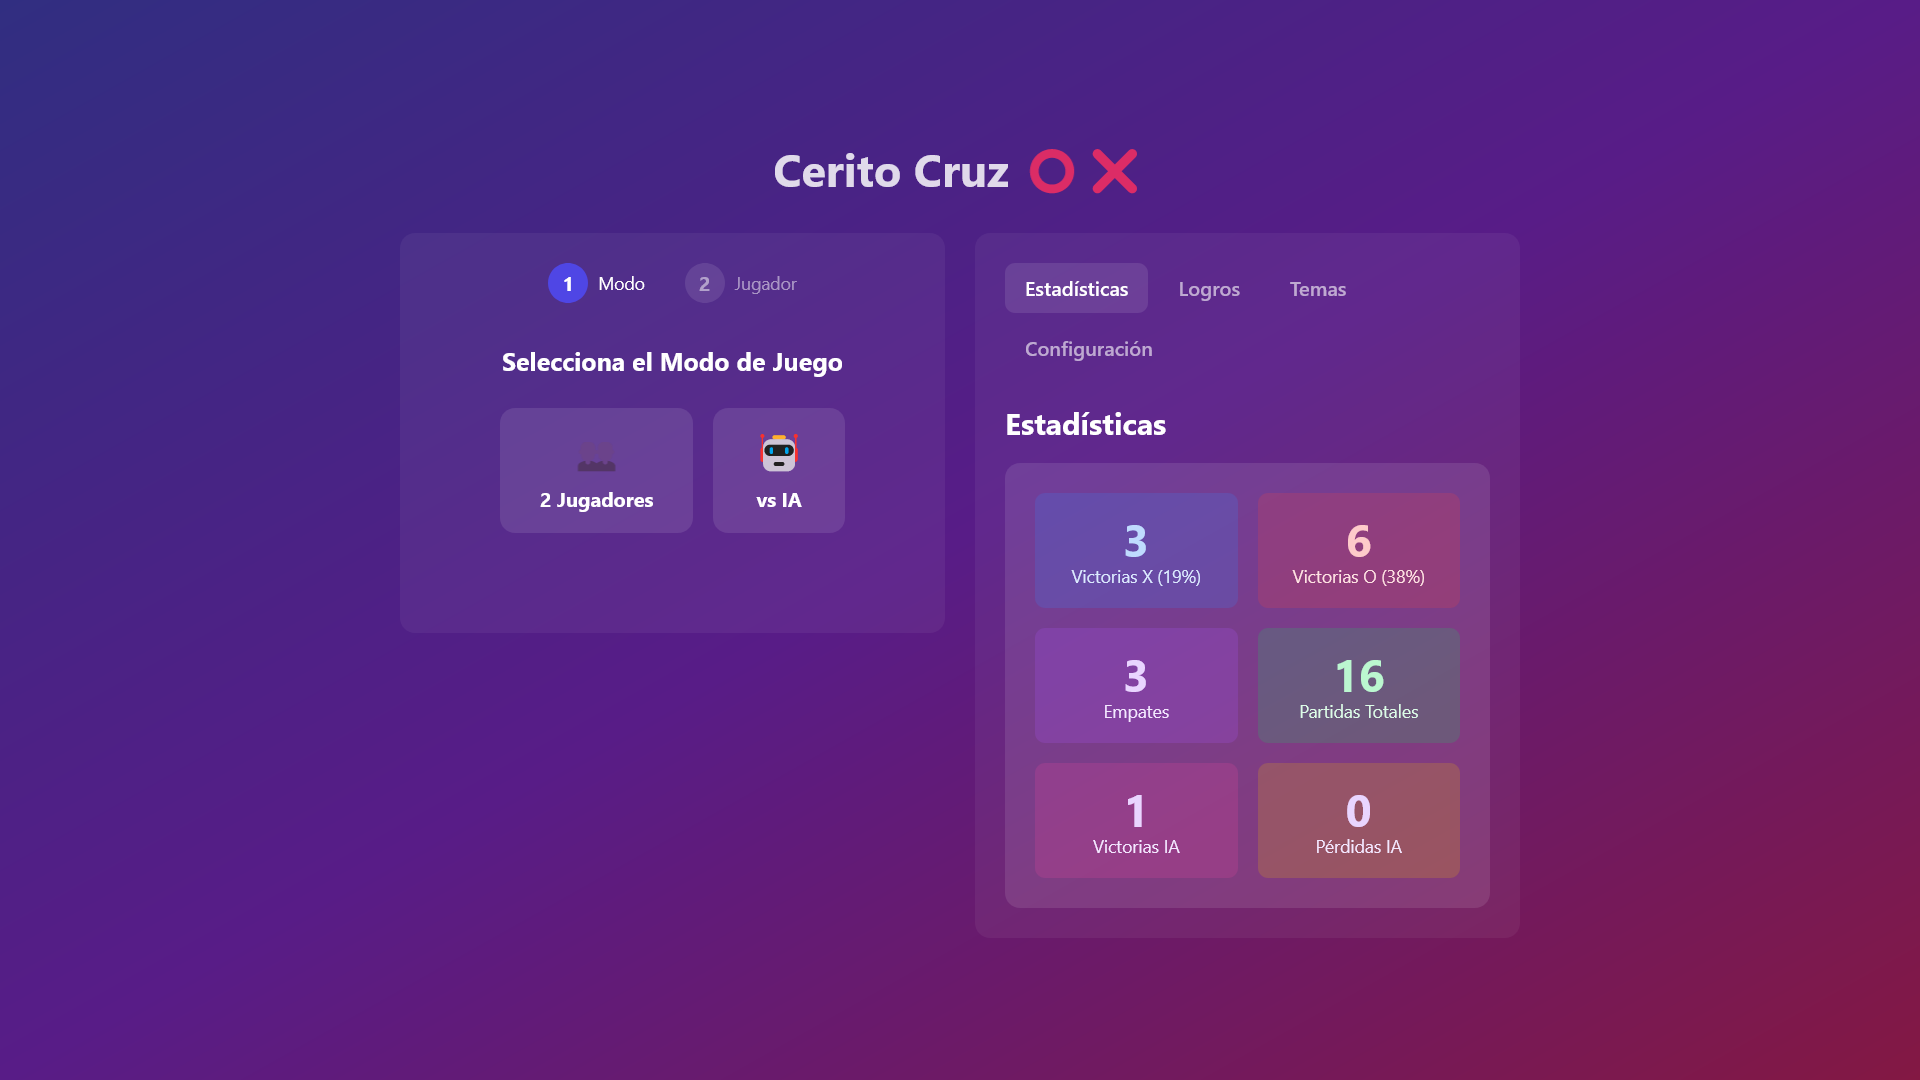
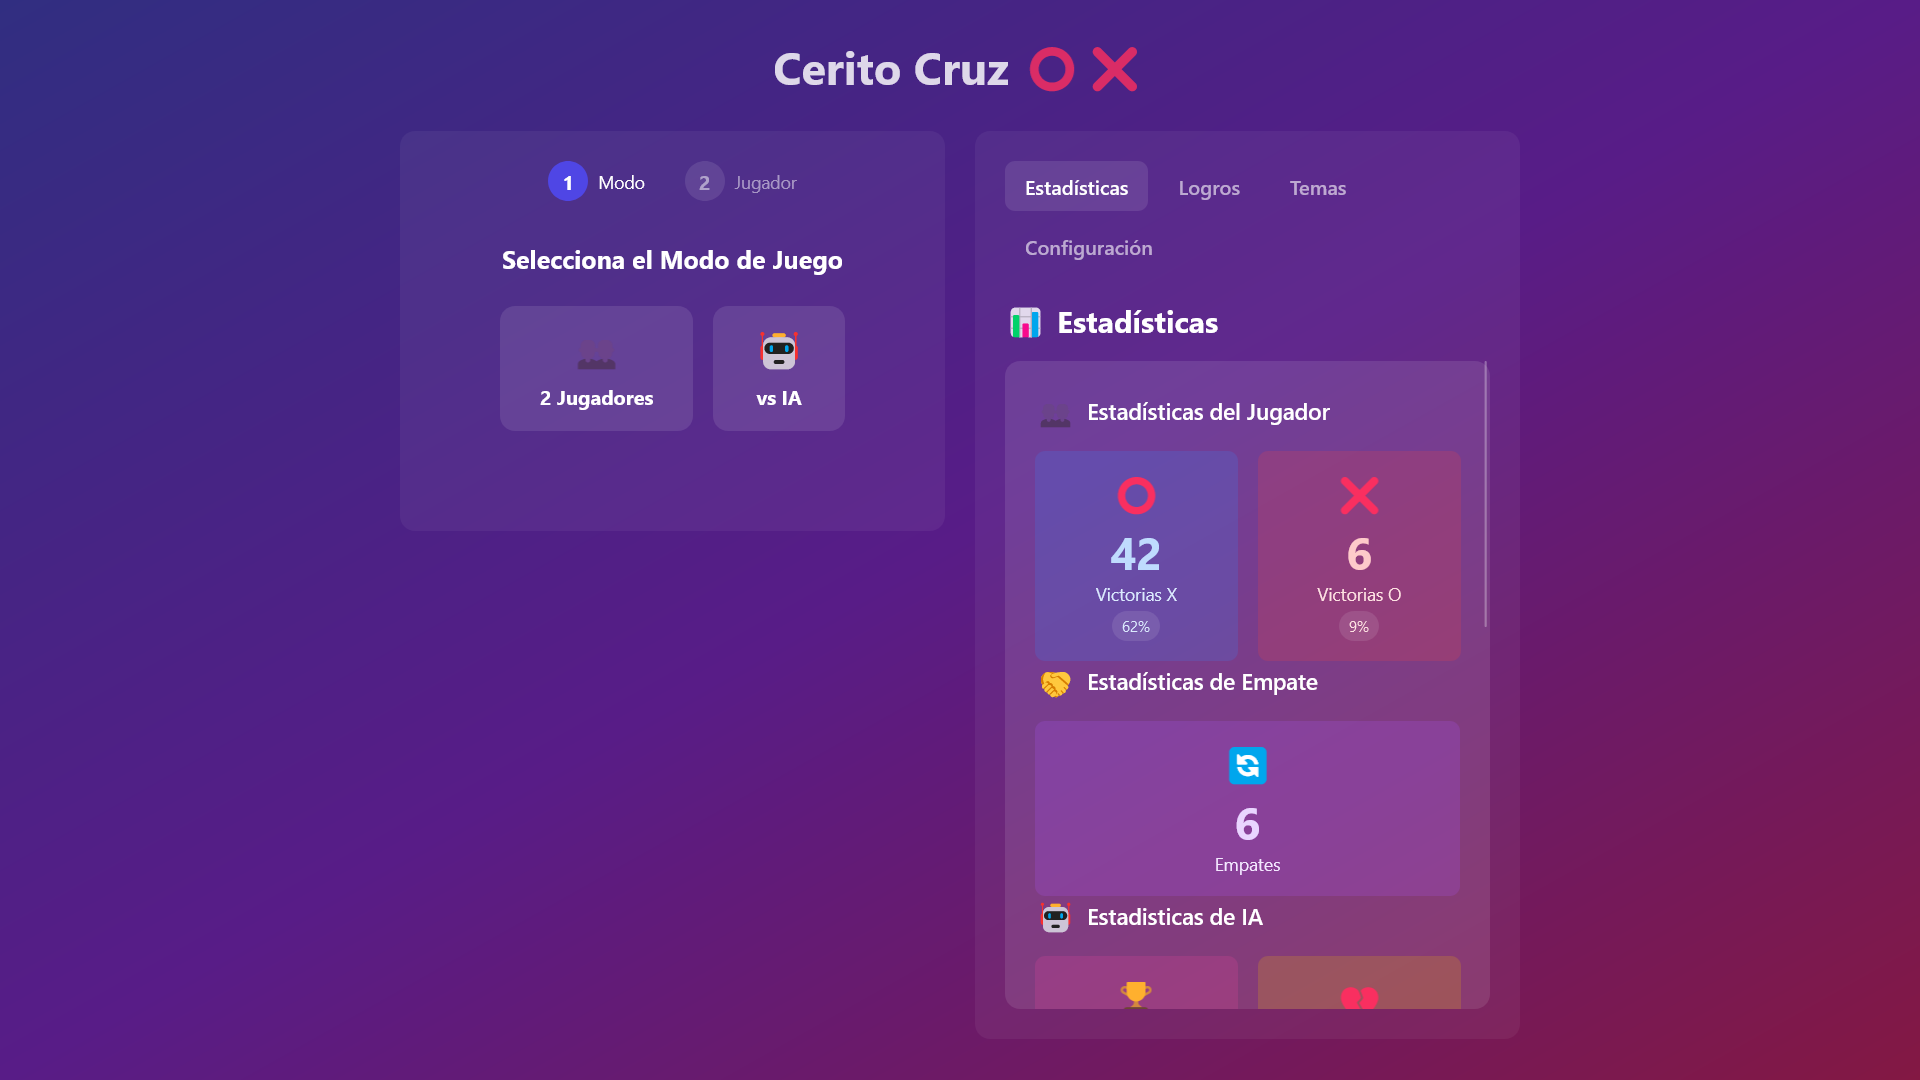
feat: scroll to sections

diff --git a/src/components/ThemeSelector.vue b/src/components/ThemeSelector.vue
@@ -1,3 +1,65 @@
+<template>
+  <div class="space-y-8">
+    <!-- Header -->
+    <div class="space-y-4">
+      <div class="flex items-center justify-between">
+        <h2 :class="[themes[store.theme].textColor, 'text-2xl font-bold flex items-center gap-2']">
+          <span class="text-2xl">🎨</span>
+          {{ $t('themes.title') }}
+        </h2>
+        <div class="text-sm text-white/60">
+          {{ availableThemes.length }}/{{ totalThemes }} {{ $t('themes.unlocked').toLowerCase() }}
+        </div>
+      </div>
+
+      <!-- Progress Bar -->
+      <div class="w-full bg-white/5 rounded-full h-2 overflow-hidden">
+        <div
+            :class="[themes[store.theme].background, 'h-full transition-all duration-1000 ease-out']"
+            :style="{ width: `${progress}%` }"
+        ></div>
+      </div>
+    </div>
+
+    <div class="max-h-[50vh] overflow-y-auto custom-scrollbar">
+      <div class="space-y-8 px-4 py-2">
+        <!-- Available Themes -->
+        <ThemeGrid :themes="availableThemes" :title="$t('themes.unlocked')">
+          <button
+              v-for="theme in availableThemes"
+              :key="theme.id"
+              @click="store.setTheme(theme.id)"
+          >
+            <ThemeCard
+                :theme="theme"
+                :name="$t(`themes.${theme.id}`)"
+                :is-unlocked="true"
+                :is-selected="store.theme === theme.id"
+            />
+          </button>
+        </ThemeGrid>
+
+        <!-- Locked Themes -->
+        <ThemeGrid
+            v-if="lockedThemes.length > 0"
+            :themes="lockedThemes"
+            :title="$t('themes.locked')"
+            is-locked
+        >
+          <div v-for="theme in lockedThemes" :key="theme.id">
+            <ThemeCard
+                :theme="theme"
+                :name="'???'"
+                :is-unlocked="false"
+                :is-selected="false"
+            />
+          </div>
+        </ThemeGrid>
+      </div>
+    </div>
+  </div>
+</template>
+
 <script setup lang="ts">
 import { computed } from 'vue'
 import { useGameStore } from '../stores/game'
@@ -22,61 +84,3 @@ const progress = computed(() => {
   return Math.round(percentage)
 })
 </script>
-
-<template>
-  <div class="space-y-8">
-    <!-- Header -->
-    <div class="space-y-4">
-      <div class="flex items-center justify-between">
-        <h2 :class="[themes[store.theme].textColor, 'text-2xl font-bold flex items-center gap-2']">
-          <span class="text-2xl">🎨</span>
-          {{ $t('themes.title') }}
-        </h2>
-        <div class="text-sm text-white/60">
-          {{ availableThemes.length }}/{{ totalThemes }} {{ $t('themes.unlocked').toLowerCase() }}
-        </div>
-      </div>
-
-      <!-- Progress Bar -->
-      <div class="w-full bg-white/5 rounded-full h-2 overflow-hidden">
-        <div
-            :class="[themes[store.theme].background, 'h-full transition-all duration-1000 ease-out']"
-            :style="{ width: `${progress}%` }"
-        ></div>
-      </div>
-    </div>
-
-    <!-- Available Themes -->
-    <ThemeGrid :themes="availableThemes" :title="$t('themes.unlocked')">
-      <button
-          v-for="theme in availableThemes"
-          :key="theme.id"
-          @click="store.setTheme(theme.id)"
-      >
-        <ThemeCard
-            :theme="theme"
-            :name="$t(`themes.${theme.id}`)"
-            :is-unlocked="true"
-            :is-selected="store.theme === theme.id"
-        />
-      </button>
-    </ThemeGrid>
-
-    <!-- Locked Themes -->
-    <ThemeGrid
-        v-if="lockedThemes.length > 0"
-        :themes="lockedThemes"
-        :title="$t('themes.locked')"
-        is-locked
-    >
-      <div v-for="theme in lockedThemes" :key="theme.id">
-        <ThemeCard
-            :theme="theme"
-            :name="'???'"
-            :is-unlocked="false"
-            :is-selected="false"
-        />
-      </div>
-    </ThemeGrid>
-  </div>
-</template>

diff --git a/src/components/Settings.vue b/src/components/Settings.vue
@@ -3,18 +3,18 @@
     <h2 :class="[themes[theme].textColor, 'text-2xl font-bold mb-4']">
       {{ $t('settings.title') }}
     </h2>
-    
-    <div class="space-y-4">
+
+    <div class="max-h-[60vh] overflow-y-auto custom-scrollbar space-y-4">
       <div class="p-4 bg-white/5 backdrop-blur-sm rounded-lg">
         <h3 class="text-lg font-semibold text-white mb-2">
           {{ $t('settings.language.title') }}
         </h3>
         <div class="flex flex-wrap gap-2">
           <button
-            v-for="lang in languages"
-            :key="lang.code"
-            @click="changeLanguage(lang.code)"
-            :class="[
+              v-for="lang in languages"
+              :key="lang.code"
+              @click="changeLanguage(lang.code)"
+              :class="[
               'px-4 py-2 rounded-lg transition-all duration-300',
               store.language === lang.code
                 ? 'bg-white/20 text-white'
@@ -34,13 +34,13 @@
           {{ $t('settings.data.description') }}
         </p>
         <button
-          @click="$emit('openDeleteModal')"
-          class="w-full py-3 bg-red-600/50 backdrop-blur-md text-white rounded-lg font-semibold hover:bg-red-700/50 transition-all duration-300 transform hover:scale-105 focus:outline-none focus:ring-2 focus:ring-offset-2 focus:ring-red-500"
+            @click="$emit('openDeleteModal')"
+            class="w-full py-3 bg-red-600/50 backdrop-blur-md text-white rounded-lg font-semibold hover:bg-red-700/50 transition-all duration-300 transform hover:scale-105 focus:outline-none focus:ring-2 focus:ring-offset-2 focus:ring-red-500"
         >
           {{ $t('settings.data.deleteButton') }}
         </button>
       </div>
-      
+
       <div class="p-4 bg-white/5 backdrop-blur-sm rounded-lg">
         <h3 class="text-lg font-semibold text-white mb-2">
           {{ $t('settings.info.title') }}

diff --git a/src/style.css b/src/style.css
@@ -1,3 +1,25 @@
 @tailwind base;
 @tailwind components;
 @tailwind utilities;
+
+.custom-scrollbar {
+    scrollbar-width: thin;
+    scrollbar-color: rgba(255, 255, 255, 0.3) transparent;
+}
+
+.custom-scrollbar::-webkit-scrollbar {
+    width: 6px;
+}
+
+.custom-scrollbar::-webkit-scrollbar-track {
+    background: transparent;
+}
+
+.custom-scrollbar::-webkit-scrollbar-thumb {
+    background-color: rgba(255, 255, 255, 0.3);
+    border-radius: 20px;
+}
+
+.custom-scrollbar::-webkit-scrollbar-thumb:hover {
+    background-color: rgba(255, 255, 255, 0.5);
+}

diff --git a/src/utils/ai.ts b/src/utils/ai.ts
@@ -1,4 +1,4 @@
-import { Board, Player } from '../types/game'
+import {Board, Player} from '../types/game'
 
 export function getAIMove(board: Board, difficulty: string, aiPlayer: Player): number {
   switch (difficulty) {
@@ -74,8 +74,7 @@ function findWinningMove(board: Board, player: Player): number {
     const emptyCount = line.filter(cell => cell === '').length
 
     if (playerCount === 2 && emptyCount === 1) {
-      const emptyIndex = pattern[line.indexOf('')]
-      return emptyIndex
+      return pattern[line.indexOf('')]
     }
   }
 

diff --git a/src/components/Achievements.vue b/src/components/Achievements.vue
@@ -4,7 +4,7 @@
       {{ $t('achievements.title') }}
     </h2>
 
-    <div class="bg-white/10 backdrop-blur-md rounded-xl p-6">
+    <div class="bg-white/10 backdrop-blur-md rounded-xl p-6 max-h-[60vh] overflow-y-auto custom-scrollbar">
       <!-- Game Mastery -->
       <AchievementSection :title="$t('achievements.sections.mastery')" icon="🎯">
         <AchievementCard

diff --git a/src/components/GameStats.vue b/src/components/GameStats.vue
@@ -5,7 +5,7 @@
       {{ $t('stats.title') }}
     </h2>
 
-    <div class="bg-white/10 backdrop-blur-md rounded-xl p-6 space-y-8">
+    <div class="bg-white/10 backdrop-blur-md rounded-xl p-6 max-h-[60vh] overflow-y-auto custom-scrollbar">
       <!-- Player Stats -->
       <StatSection :title="$t('stats.playerStats')" icon="👥" columns="grid-cols-2">
         <StatCard
